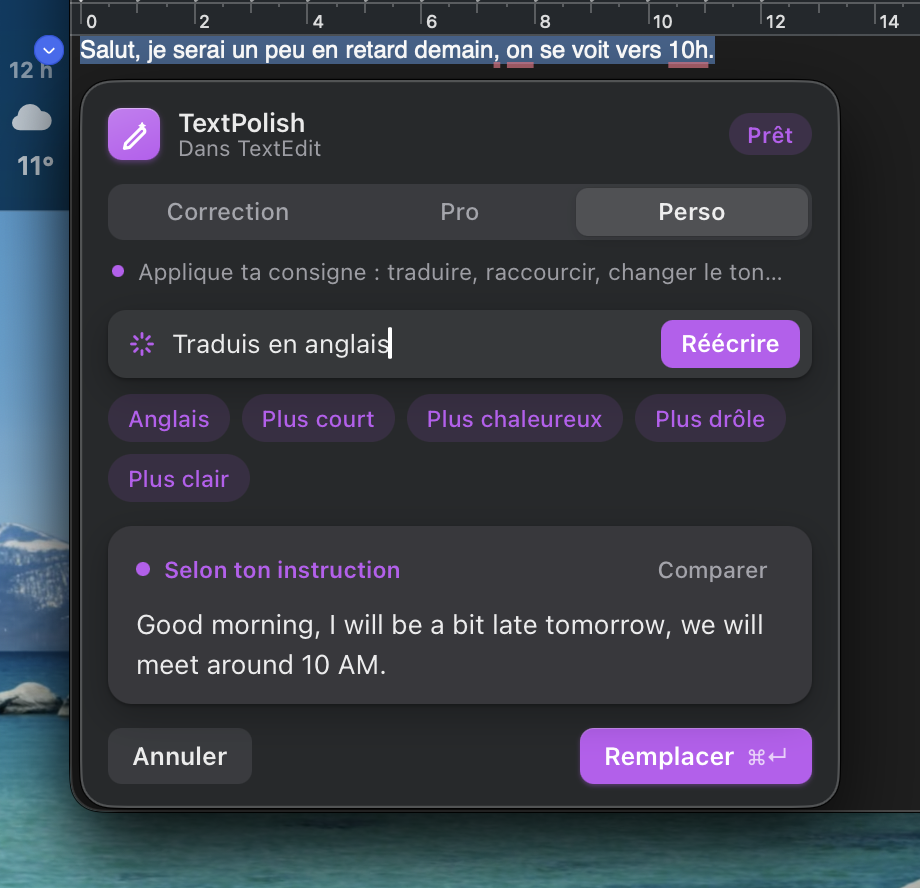
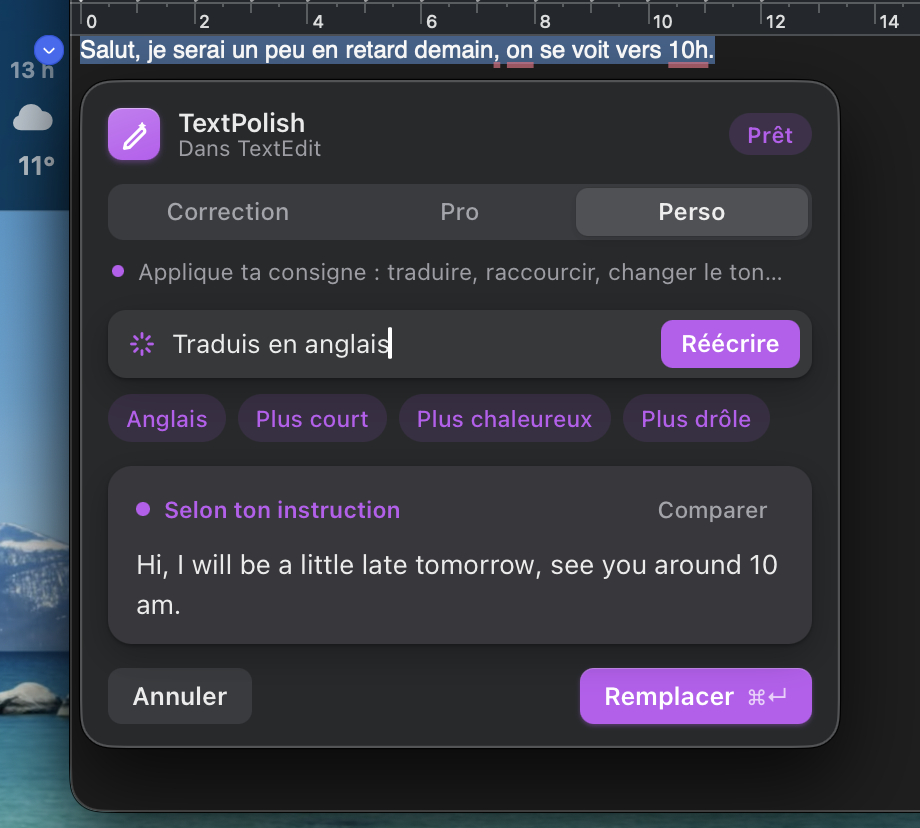
docs: update case study for the single Gemma 4 model

diff --git a/docs/case-study.html b/docs/case-study.html
@@ -138,8 +138,8 @@
     <p class="lede" style="margin-top:18px">J'écris vite, sur mon téléphone comme sur mon Mac, et je laisse passer des fautes. J'ai construit un petit outil qui les corrige <span class="fix"><s>sans quiter</s> <ins>sans quitter</ins></span> l'app où j'écris : je sélectionne, j'appuie sur <kbd>⌥⌘G</kbd>, et une fenêtre me propose les corrections une par une. Le modèle tourne sur mon Mac, rien ne part sur Internet.</p>
     <div class="meta">
       <span class="label">Python · PyObjC · WebKit</span>
-      <span class="label">Ollama · Ministral 3B · Gemma 3</span>
-      <span class="label">109 tests</span>
+      <span class="label">Ollama · Gemma 4 E2B</span>
+      <span class="label">111 tests</span>
     </div>
   </div>
   <figure>
@@ -216,11 +216,12 @@
   <h2>Tout reste sur le Mac</h2>
   <p>Le modèle tourne avec Ollama, directement sur mon MacBook (M2, 16 Go). Mes messages ne quittent jamais l'ordinateur, l'outil marche sans connexion, et il ne coûte rien à l'usage. En échange, il faut accepter des modèles plus petits et faire attention à la vitesse.</p>
   <div class="stats">
-    <div><div class="stat">~1 s</div><p>pour corriger une phrase quand le modèle est déjà chargé</p></div>
-    <div><div class="stat">~5 s</div><p>quand on change de mode : le Mac recharge l'autre modèle</p></div>
+    <div><div class="stat">~1 s</div><p>pour corriger ou réécrire une phrase, modèle chargé</p></div>
+    <div><div class="stat">&lt; 1 s</div><p>pour changer de mode, contre 5 s avant</p></div>
     <div><div class="stat">0</div><p>octet envoyé sur Internet</p></div>
   </div>
-  <p>Le deuxième chiffre m'a surpris. J'ai essayé de garder les deux modèles en mémoire en même temps, mais avec un navigateur et un éditeur ouverts, il ne reste pas assez de place sur 16 Go. C'est la prochaine chose à améliorer.</p>
+  <p>Le changement de mode coûtait 5 secondes : j'utilisais un modèle pour corriger et un autre pour réécrire, et avec un navigateur et un éditeur ouverts, mon Mac ne pouvait pas garder les deux en mémoire. J'ai fini par trouver un seul modèle assez bon pour les trois modes, et ce délai a disparu.</p>
+  <p>J'ai aussi essayé MLX, le moteur d'Apple que les dernières versions d'Ollama savent utiliser. C'était trois fois plus rapide (0,34 s), mais le modèle prenait 7,4 Go de mémoire et mon Mac commençait à ramer. J'ai gardé la version plus légère et noté MLX comme option pour les Mac qui ont plus de RAM.</p>
 </section>
 
 <section class="col">
@@ -230,7 +231,8 @@
   <div class="iter"><div class="v">v2</div><div><p>Le résultat s'affiche avant d'être collé, avec les mots barrés et ajoutés, et la fenêtre se place sous le texte.</p><p class="why">Il fallait encore choisir un mode avant que la correction démarre.</p></div></div>
   <div class="iter"><div class="v">v3</div><div><p>Fenêtre plus petite, correction lancée dès l'ouverture.</p><p class="why">Le mode « décontracté » réécrivait mes phrases au lieu de les corriger. C'était le modèle, pas l'interface.</p></div></div>
   <div class="iter"><div class="v">v4</div><div><p>Une carte par faute, le flou natif de macOS, une hauteur qui suit le contenu, et une vue différente pour les longs textes.</p><p class="why">Quand un texte n'avait aucune faute, la fenêtre se fermait toute seule. Impossible d'en demander une version pro.</p></div></div>
-  <div class="iter"><div class="v">v5</div><div><p>Le cas « aucune faute » propose la suite, chaque mode explique ce qu'il fait, et Perso a des idées toutes prêtes.</p><p class="why">Version actuelle.</p></div></div>
+  <div class="iter"><div class="v">v5</div><div><p>Le cas « aucune faute » propose la suite, chaque mode explique ce qu'il fait, et Perso a des idées toutes prêtes.</p><p class="why">Changer de mode prenait encore 5 secondes.</p></div></div>
+  <div class="iter"><div class="v">v6</div><div><p>Un seul modèle pour les trois modes : on passe de Correction à Pro ou Perso en moins d'une seconde.</p><p class="why">Version actuelle.</p></div></div>
 </section>
 
 <section class="col">
@@ -240,7 +242,7 @@
 
 <section class="col">
   <h2>Choisir le modèle</h2>
-  <p>J'ai testé une dizaine de modèles sur des phrases en français et en anglais, avec un autre modèle pour noter les résultats. Quelques constats ont changé le produit :</p>
+  <p>J'ai testé une quinzaine de modèles en six séries. Pour la dernière, j'ai écrit une liste de phrases avec la correction attendue, dont trois phrases sans faute qu'un bon correcteur ne doit pas toucher. Ça permet de compter, au lieu de se fier à une impression. Quelques constats ont changé le produit :</p>
   <div class="table-wrap">
     <table>
       <thead><tr><th>Ce que j'ai vu</th><th>Ce que j'ai changé</th></tr></thead>
@@ -249,6 +251,8 @@
         <tr><td>En mode Pro, <code>ministral-3:3b</code> invente un e-mail entier à partir de deux phrases.</td><td>Pro garde <code>gemma3:4b</code>.</td></tr>
         <tr><td>Le modèle de correction mettait des mots en gras et traduisait « deadline » en « délai ».</td><td>Le gras est retiré et la consigne garde les anglicismes.</td></tr>
         <tr><td>Il remplaçait <code>'</code> par <code>’</code> et ajoutait des espaces insécables.</td><td>Ces détails ne comptent plus comme des corrections.</td></tr>
+        <tr><td><code>gemma4:e2b</code> fait aussi bien en correction (10/12), mieux en Pro et en Perso, et répond en environ 1 s.</td><td>Un seul modèle pour les trois modes : plus de rechargement.</td></tr>
+        <tr><td>« J'ai finit le rapport hier soir » partait en anglais : mon détecteur de langue ne la reconnaissait pas comme du français.</td><td>Le détecteur est corrigé ; c'était mon code, pas le modèle.</td></tr>
       </tbody>
     </table>
   </div>
@@ -267,7 +271,7 @@
 
 <section class="col">
   <h2>La suite</h2>
-  <p>Les nouvelles versions d'Ollama utilisent MLX, le moteur d'Apple, pour certains modèles. Je veux mesurer si ça réduit les 5 secondes de changement de mode. Je veux aussi essayer de petits modèles sortis récemment (Qwen 3.5 2B, LFM3) pour la correction, et un modèle entraîné spécialement sur la grammaire française.</p>
+  <p>Le modèle actuel reste petit : il rate encore deux fautes sur douze, et son humour en mode Perso est limité. Les prochaines pistes sont un modèle entraîné spécialement sur la grammaire française, et la version MLX quand j'aurai un Mac avec plus de mémoire. Les petits modèles que j'ai essayés (Qwen 3.5 2B, LFM3) étaient rapides, mais ajoutaient des fautes ou affichaient leur raisonnement dans la réponse.</p>
 </section>
 
 <section class="col">
